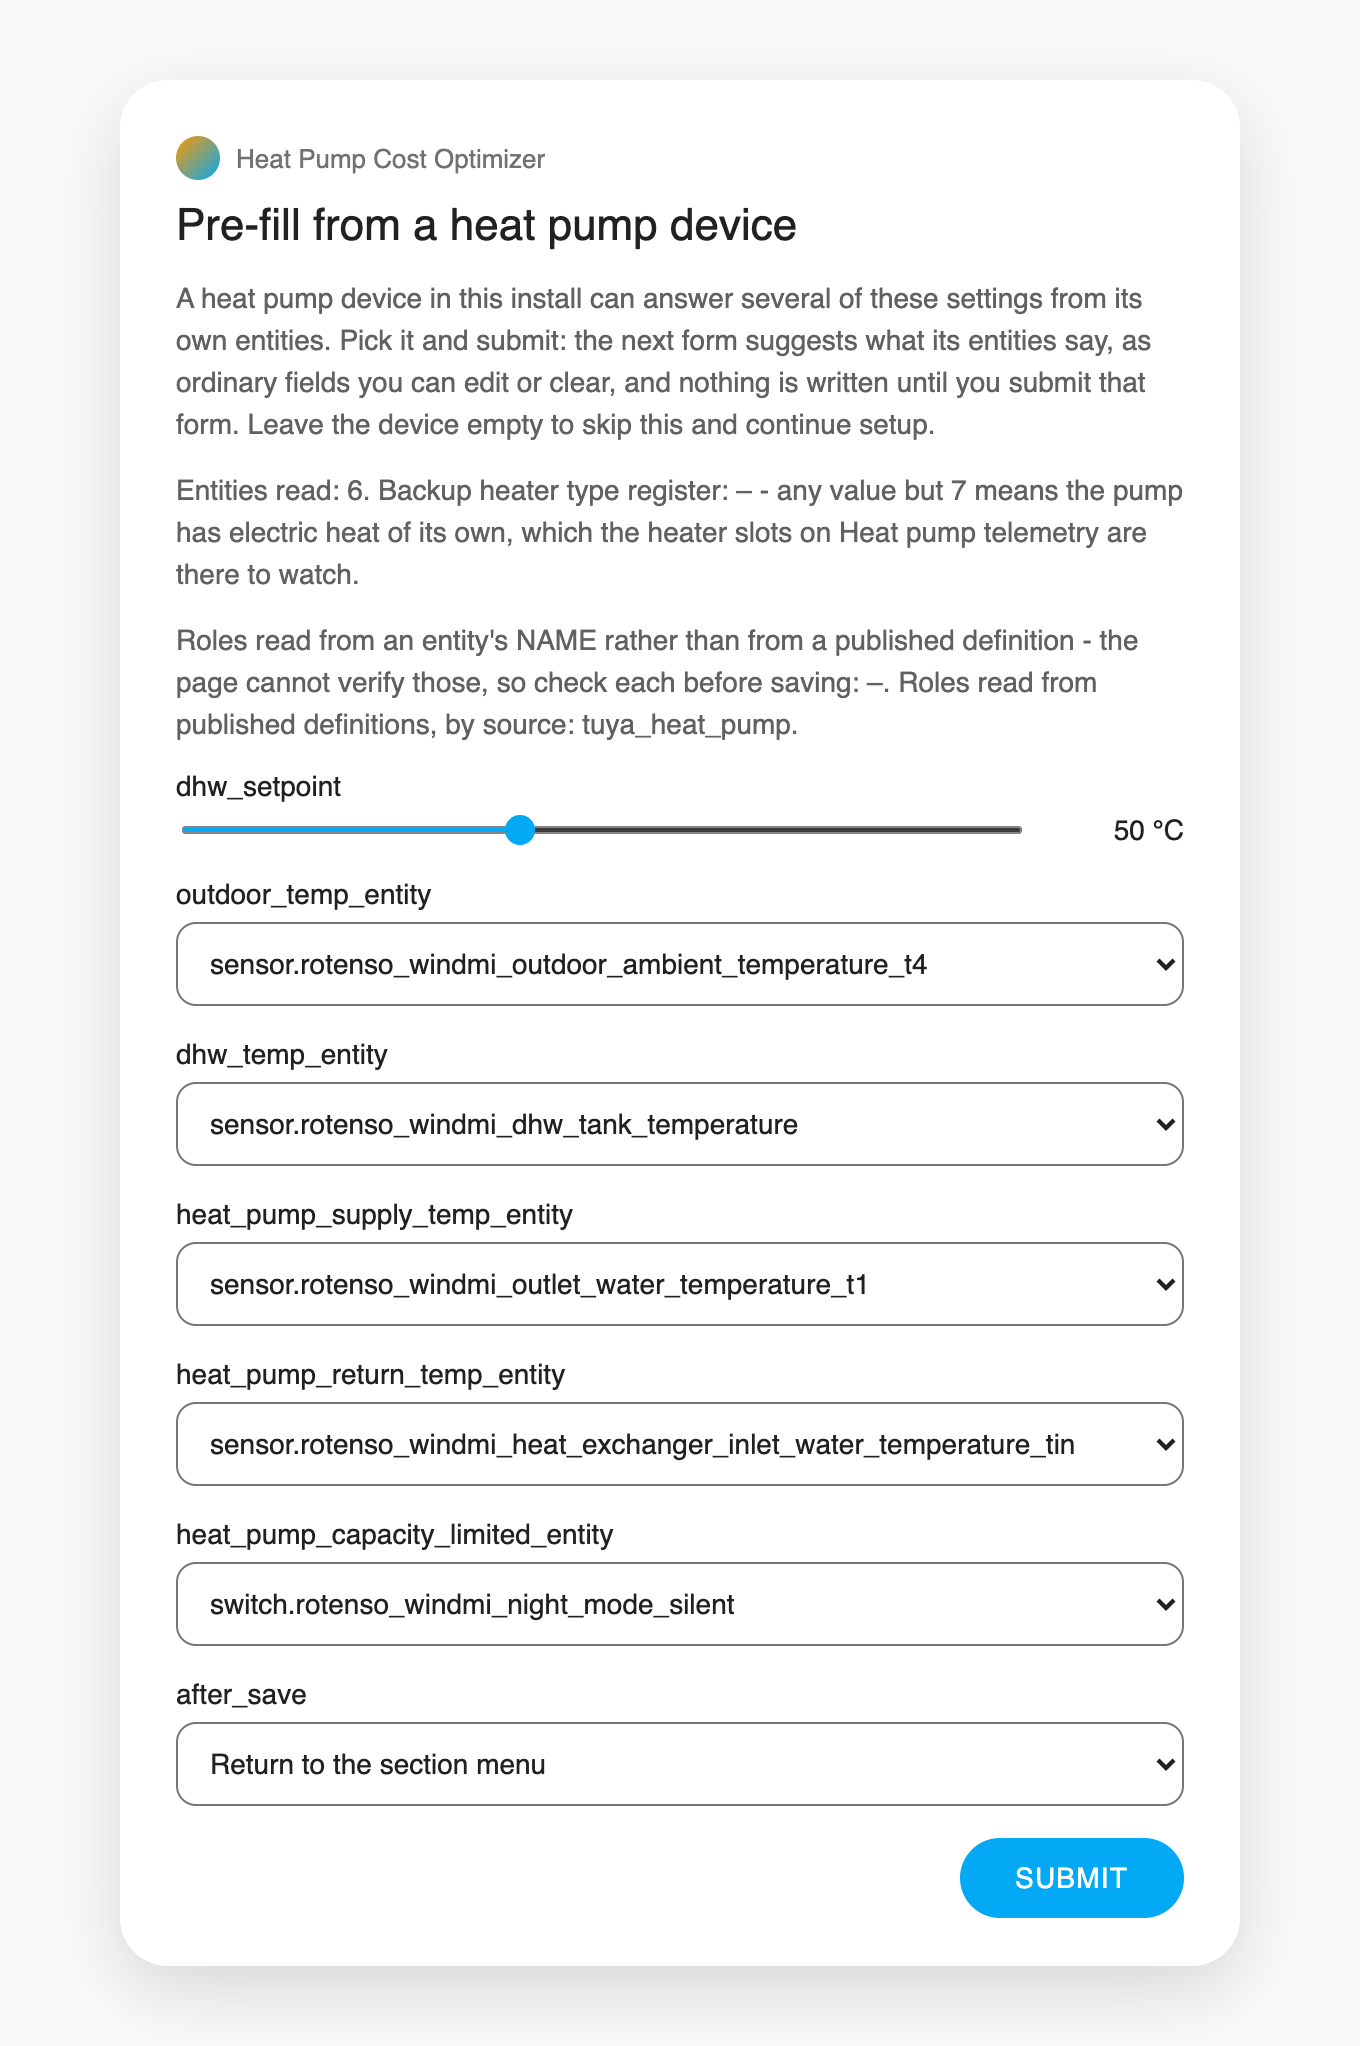
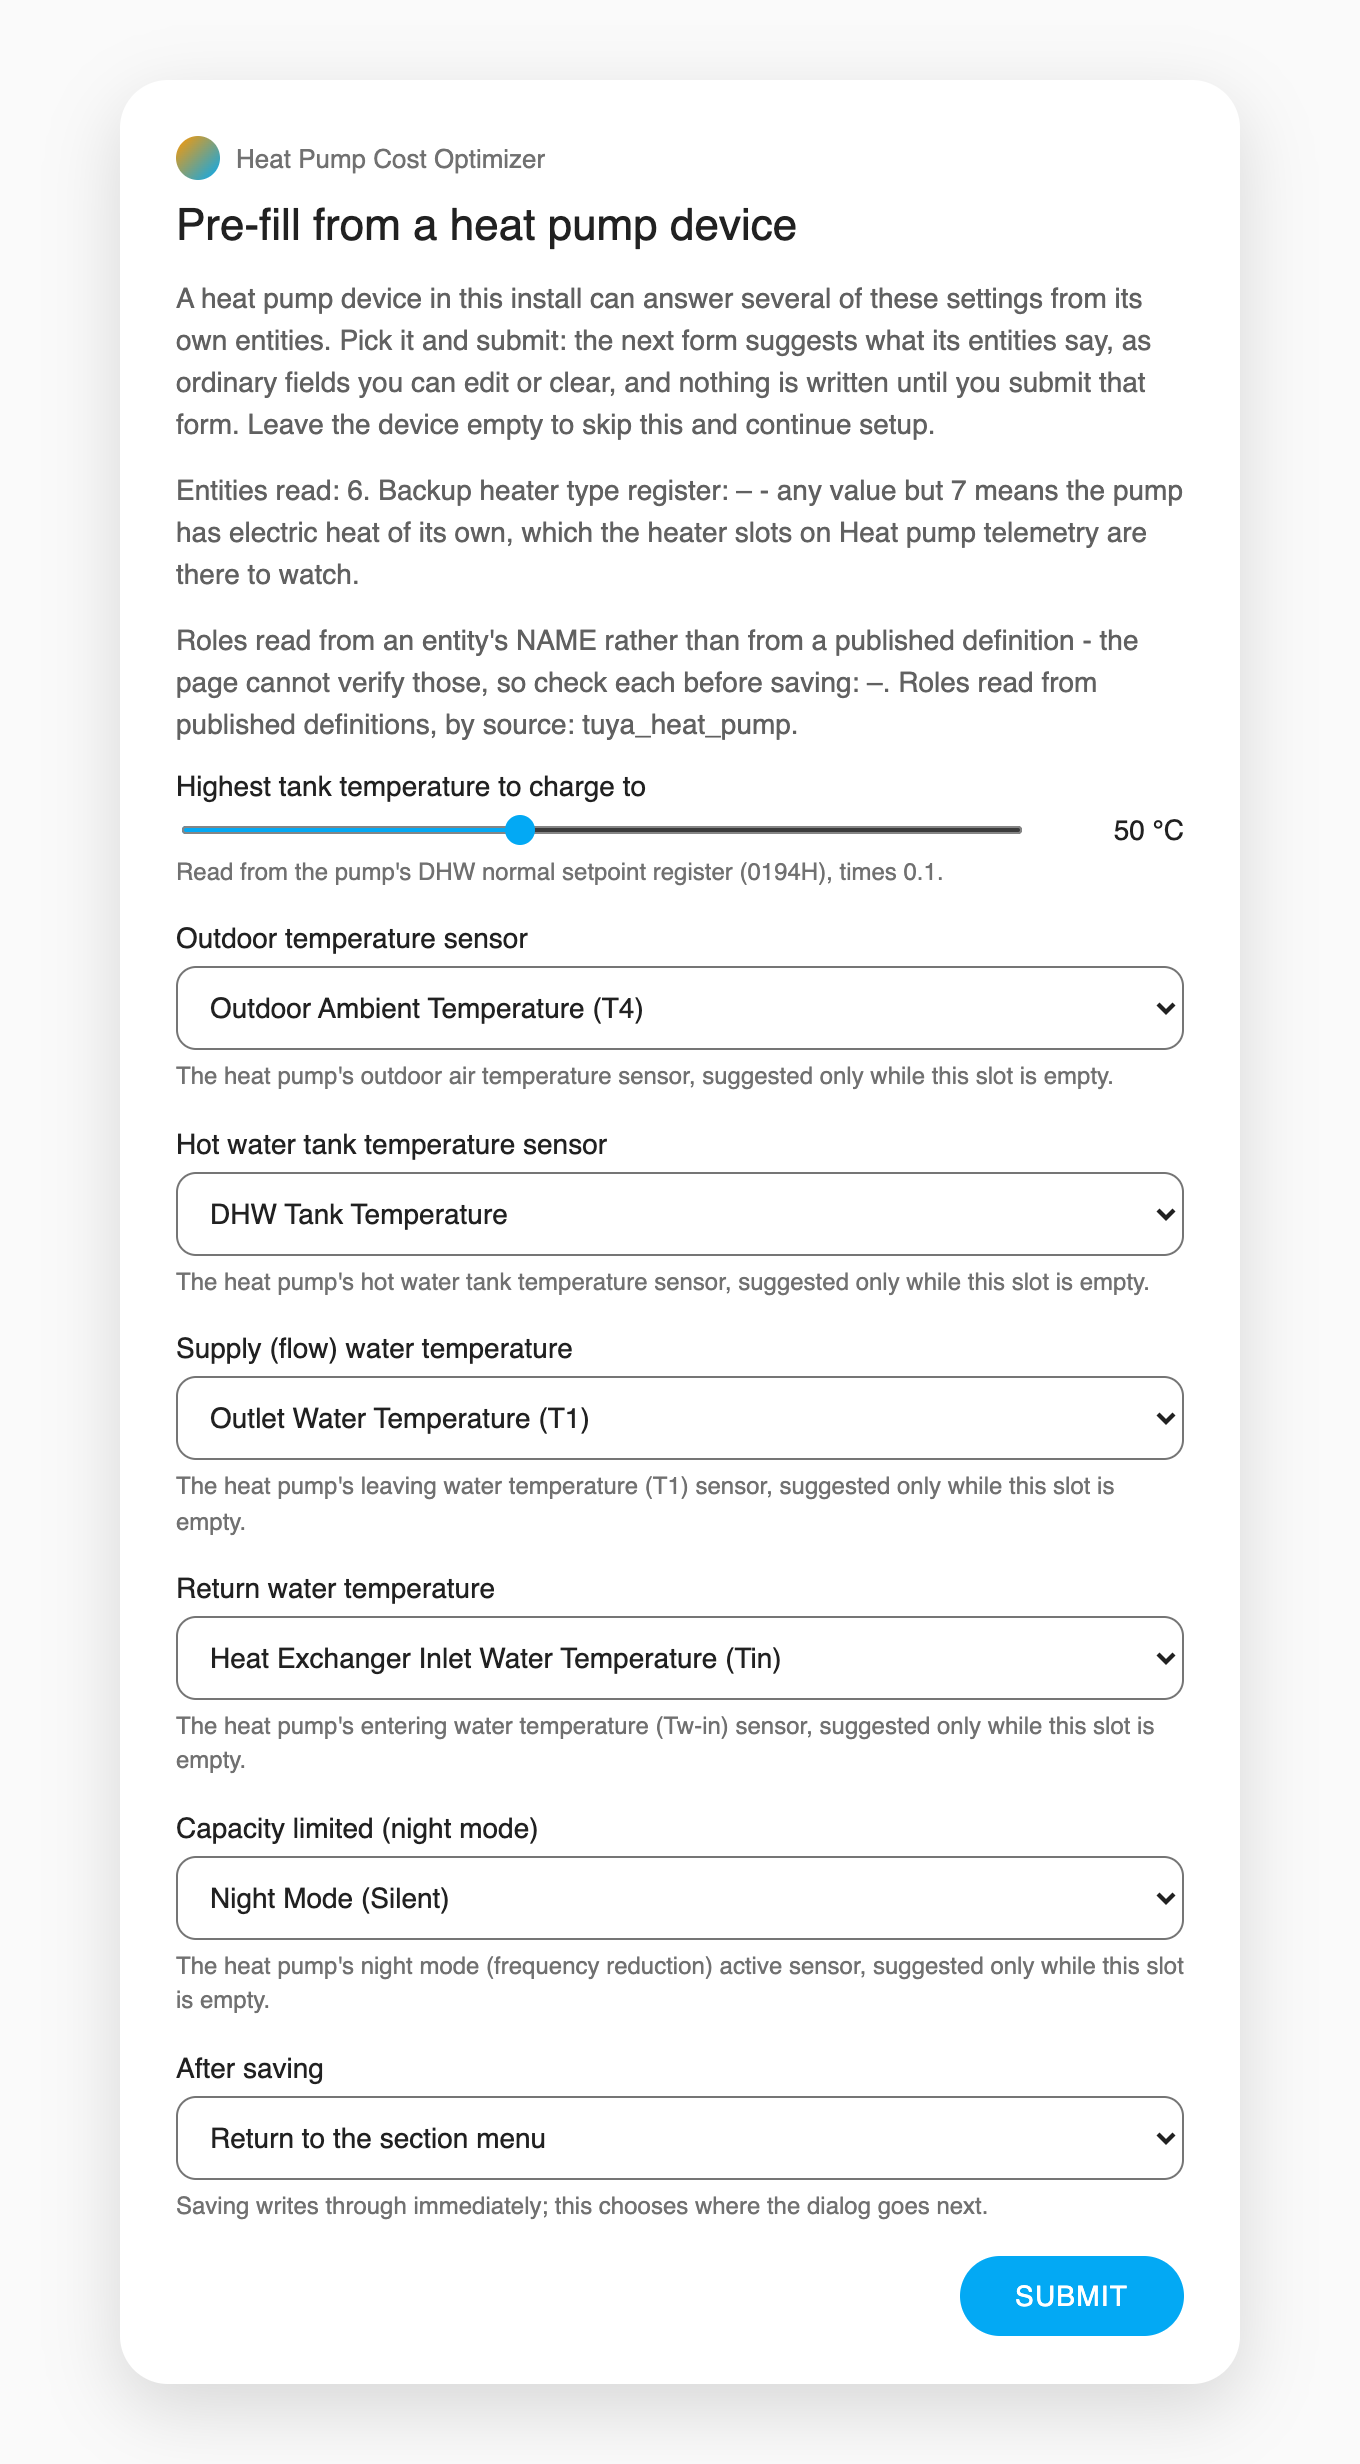
Golden config_flow re-record + claim; 06-prefill-result.png regenerated; D6 register regenerated
config_flow.json re-recorded through tests/golden.py --record --only
config_flow after the options quick_setup page landed: ADD-ONLY, 249
insertions 0 deletions vs f9a4c63 (the page fingerprint, its seeded
render, the five boolean question names the derived seed collects, and
the init menu's ordered pair). claimed_drift.txt claims exactly that
(config_flow, claims-for 6.6.5) and drops main's #1260 line for the G5b
reason its own note records. docs/setup/06-prefill-result.png regenerated
through the doc render pipeline with friendly entity names resolved the
way production resolves them. tools/audit/round4/D6/claims.py's C26/C27/
C29 labels derived from the sentences they read (the 22 literals had gone
stale against the docs), register regenerated in the same commit.

diff --git a/tools/audit/round4/D6/claims.py b/tools/audit/round4/D6/claims.py
@@ -501,11 +501,18 @@ OPTIONS = config_flow.HeatPumpOptimizerOptionsFlow
 _opt_step = STRINGS["options"]["step"]
 _init_menu = [k for k in _opt_step["init"]["menu_options"] if k != "advanced"]
 _adv_menu = [k for k in _opt_step["advanced"]["menu_options"] if k != "advanced"]
-eq("C26", "README.md", "a menu of 22 pages", CMD,
-   int(re.search(r"menu of (\d+) pages", README).group(1)),
+# C26/C27/C29's labels are derived from the sentence each reads, on C28's
+# #1148 precedent: a literal count frozen at authoring time ("a menu of 22
+# pages") regenerated the register quoting a number the document no longer
+# carries the moment the menu gained a page, while the verdict stayed true --
+# the label is the claim's wording, and the wording is the document's.
+_readme_pages = re.search(r"menu of (\d+) pages", README)
+eq("C26", "README.md", f"a menu of {_readme_pages.group(1)} pages", CMD,
+   int(_readme_pages.group(1)),
    len(config_flow._OPTION_PAGES))
-eq("C27", "docs/configuration.md", "There are 22 pages", CMD,
-   int(re.search(r"There are \*\*(\d+) pages\*\*", DOCS["configuration.md"]).group(1)),
+_cfg_pages = re.search(r"There are \*\*(\d+) pages\*\*", DOCS["configuration.md"])
+eq("C27", "docs/configuration.md", f"There are {_cfg_pages.group(1)} pages", CMD,
+   int(_cfg_pages.group(1)),
    len(config_flow._OPTION_PAGES))
 # C28's `documented` side is RE-READ from the sentence, like C26/C27/C29 above
 # (#1148). It was the literal (6, 15), and a comparand frozen at authoring time
@@ -528,12 +535,14 @@ eq("C28", "docs/configuration.md",
    "Advanced settings", CMD,
    (_NUM_WORD[_menu.group(1)], _NUM_WORD[_menu.group(2)]),
    (len(_init_menu), len(_adv_menu)))
+_arch_pages = re.search(r"plus (\d+) option pages", DOCS["architecture.md"])
 eq("C29", "docs/architecture.md:module map",
-   "config_flow.py -- Setup flow plus 22 option pages behind two menus", CMD,
-   int(re.search(r"plus (\d+) option pages", DOCS["architecture.md"]).group(1)),
+   f"config_flow.py -- Setup flow plus {_arch_pages.group(1)} option pages "
+   "behind two menus", CMD,
+   int(_arch_pages.group(1)),
    len(config_flow._OPTION_PAGES),
    "config_flow._OPTION_PAGES holds {m} pages, and README.md/configuration.md "
-   "both say 22")
+   "carry the same count")
 
 PAGES = {}
 for _step in OPTIONS._MENU_LABELS:

diff --git a/tools/audit/round4/D6/claims.md b/tools/audit/round4/D6/claims.md
@@ -29,10 +29,10 @@ Generated by `PYTHONPATH=tests/hastub python3 tools/audit/round4/D6/claims.py` f
 | C23 | `README.md:## Services` | the Returns column is each service's registered SupportsResponse (— = none, Always = ONLY, Optional = OPTIONAL) | `PYTHONPATH=tests/hastub python3 tools/audit/round4/D6/claims.py` | documented={'run_optimization': '—', 'set_away': '—', 'set_mode': '—', 'set_thermal_parameters': '—', 'simulate_plan': 'Always', 'apply_schedule': 'Optional', 'apply_manual_plan': 'Optional', 'clear_manual_plan': 'Optional', 'restore_learned_snapshot': 'Optional', 'diagnose_interval': 'Optional', 'assign_entity': 'Optional', 'apply_topology': 'Optional'}, registered={'run_optimization': 'none', 'set_mode': 'none', 'set_away': 'none', 'set_thermal_parameters': 'none', 'simulate_plan': 'only', 'apply_schedule': 'optional', 'assign_entity': 'optional', 'apply_topology': 'optional', 'apply_manual_plan': 'optional', 'clear_manual_plan': 'optional', 'restore_learned_snapshot': 'optional', 'diagnose_interval': 'optional'}, mismatches=[] | **true** |  |
 | C24 | `docs/configuration.md` | assign_entity's `key` is one of 21 assignable configuration keys, listed | `PYTHONPATH=tests/hastub python3 tools/audit/round4/D6/claims.py` | documented=['buffer_tank_temp_entity', 'dhw_temp_entity', 'external_heat_entity', 'floor_return_temp_entity', 'heat_pump_defrost_entity', 'heat_pump_energy_entity', 'heat_pump_fault_entity', 'heat_pump_mode_entity', 'heat_pump_online_entity', 'heat_pump_power_entity', 'heat_pump_switch_entity', 'house_power_entity', 'indoor_temp_entity', 'lower_floor_temp_entity', 'mixing_valve_target_entity', 'outdoor_temp_entity', 'pv_production_entity', 'solar_radiation_entity', 'valve_outlet_temp_entity', 'wood_tank_bottom_entity', 'wood_tank_top_entity'] measured=['buffer_tank_temp_entity', 'dhw_temp_entity', 'external_heat_entity', 'floor_return_temp_entity', 'heat_pump_defrost_entity', 'heat_pump_energy_entity', 'heat_pump_fault_entity', 'heat_pump_mode_entity', 'heat_pump_online_entity', 'heat_pump_power_entity', 'heat_pump_switch_entity', 'house_power_entity', 'indoor_temp_entity', 'lower_floor_temp_entity', 'mixing_valve_target_entity', 'outdoor_temp_entity', 'pv_production_entity', 'solar_radiation_entity', 'valve_outlet_temp_entity', 'wood_tank_bottom_entity', 'wood_tank_top_entity'] | **true** |  |
 | C25 | `docs/configuration.md` | the count in that sentence is 21 | `PYTHONPATH=tests/hastub python3 tools/audit/round4/D6/claims.py` | documented=21 measured=21 | **true** |  |
-| C26 | `README.md` | a menu of 22 pages | `PYTHONPATH=tests/hastub python3 tools/audit/round4/D6/claims.py` | documented=22 measured=22 | **true** |  |
-| C27 | `docs/configuration.md` | There are 22 pages | `PYTHONPATH=tests/hastub python3 tools/audit/round4/D6/claims.py` | documented=22 measured=22 | **true** |  |
-| C28 | `docs/configuration.md` | six on the first menu and sixteen more behind Advanced settings | `PYTHONPATH=tests/hastub python3 tools/audit/round4/D6/claims.py` | documented=(6, 16) measured=(6, 16) | **true** |  |
-| C29 | `docs/architecture.md:module map` | config_flow.py -- Setup flow plus 22 option pages behind two menus | `PYTHONPATH=tests/hastub python3 tools/audit/round4/D6/claims.py` | documented=22 measured=22 | **true** |  |
+| C26 | `README.md` | a menu of 23 pages | `PYTHONPATH=tests/hastub python3 tools/audit/round4/D6/claims.py` | documented=23 measured=23 | **true** |  |
+| C27 | `docs/configuration.md` | There are 23 pages | `PYTHONPATH=tests/hastub python3 tools/audit/round4/D6/claims.py` | documented=23 measured=23 | **true** |  |
+| C28 | `docs/configuration.md` | seven on the first menu and sixteen more behind Advanced settings | `PYTHONPATH=tests/hastub python3 tools/audit/round4/D6/claims.py` | documented=(7, 16) measured=(7, 16) | **true** |  |
+| C29 | `docs/architecture.md:module map` | config_flow.py -- Setup flow plus 23 option pages behind two menus | `PYTHONPATH=tests/hastub python3 tools/audit/round4/D6/claims.py` | documented=23 measured=23 | **true** |  |
 | C30 | `docs/configuration.md` | every documented Default (88 rows) is the default the rendered options page actually carries | `PYTHONPATH=tests/hastub python3 tools/audit/round4/D6/claims.py` | 88 compared, mismatches=[] | **true** |  |
 | C31 | `docs/configuration.md` | every documented Range (89 rows) is the NumberSelector min/max the rendered options page actually carries | `PYTHONPATH=tests/hastub python3 tools/audit/round4/D6/claims.py` | 89 compared, mismatches=[] | **true** |  |
 | C32 | `docs/architecture.md` | 45 modules | `PYTHONPATH=tests/hastub python3 tools/audit/round4/D6/claims.py` | documented=64 measured=64 | **true** |  |
@@ -128,4 +128,4 @@ Generated by `PYTHONPATH=tests/hastub python3 tools/audit/round4/D6/claims.py` f
 | C122 | `docs/configuration.md` | set_mode takes auto, comfort, economy, boost or off | `PYTHONPATH=tests/hastub python3 tools/audit/round4/D6/claims.py` | documented=['auto', 'boost', 'comfort', 'economy', 'off'] measured=['auto', 'boost', 'comfort', 'economy', 'off'] | **true** |  |
 | C123 | `DISCLAIMER.md` | the licence is MIT | `PYTHONPATH=tests/hastub python3 tools/audit/round4/D6/claims.py` | documented=True measured=True | **true** |  |
 | C124 | `DISCLAIMER.md` | the disclaimer states the software is not a safety device and carries no warranty | `PYTHONPATH=tests/hastub python3 tools/audit/round4/D6/claims.py` | 'not a safety device' present=True, 'no warranty' present=True | **true** |  |
-| C125 | `strings.json:selector` | every SelectSelector option on every options page has a translated label (37 selects) | `PYTHONPATH=tests/hastub python3 tools/audit/round4/D6/claims.py` | 37 selects, untranslated=[] | **true** |  |
+| C125 | `strings.json:selector` | every SelectSelector option on every options page has a translated label (43 selects) | `PYTHONPATH=tests/hastub python3 tools/audit/round4/D6/claims.py` | 43 selects, untranslated=[] | **true** |  |
